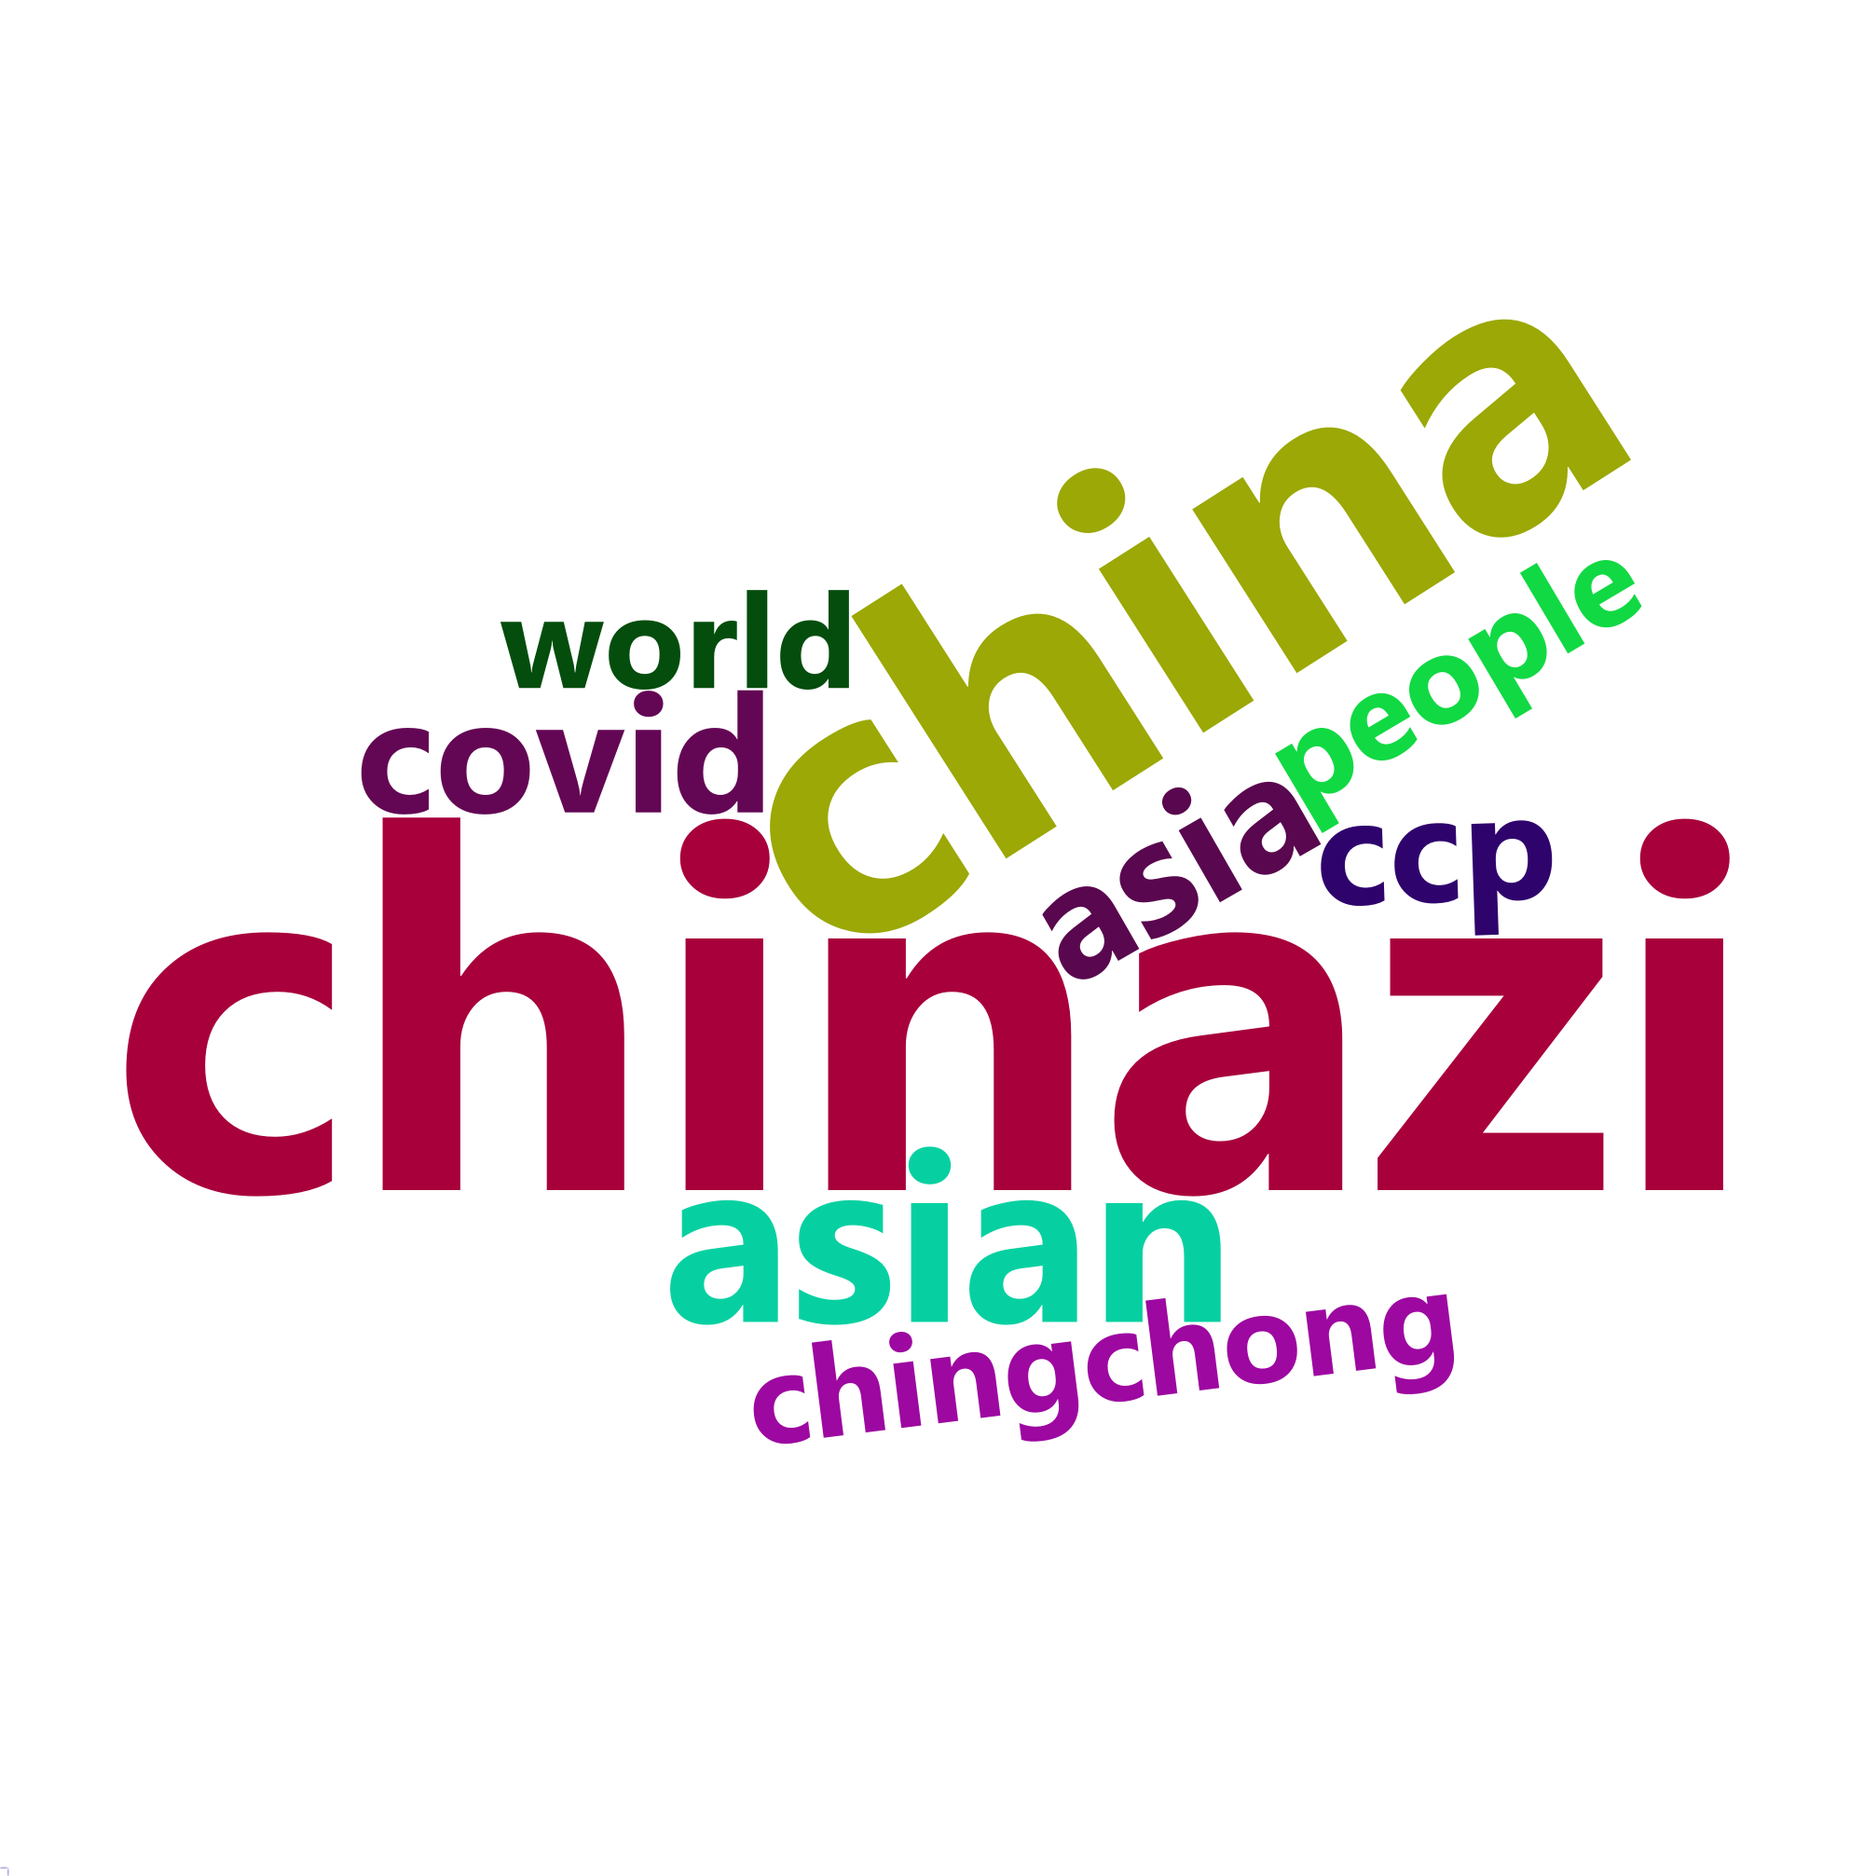
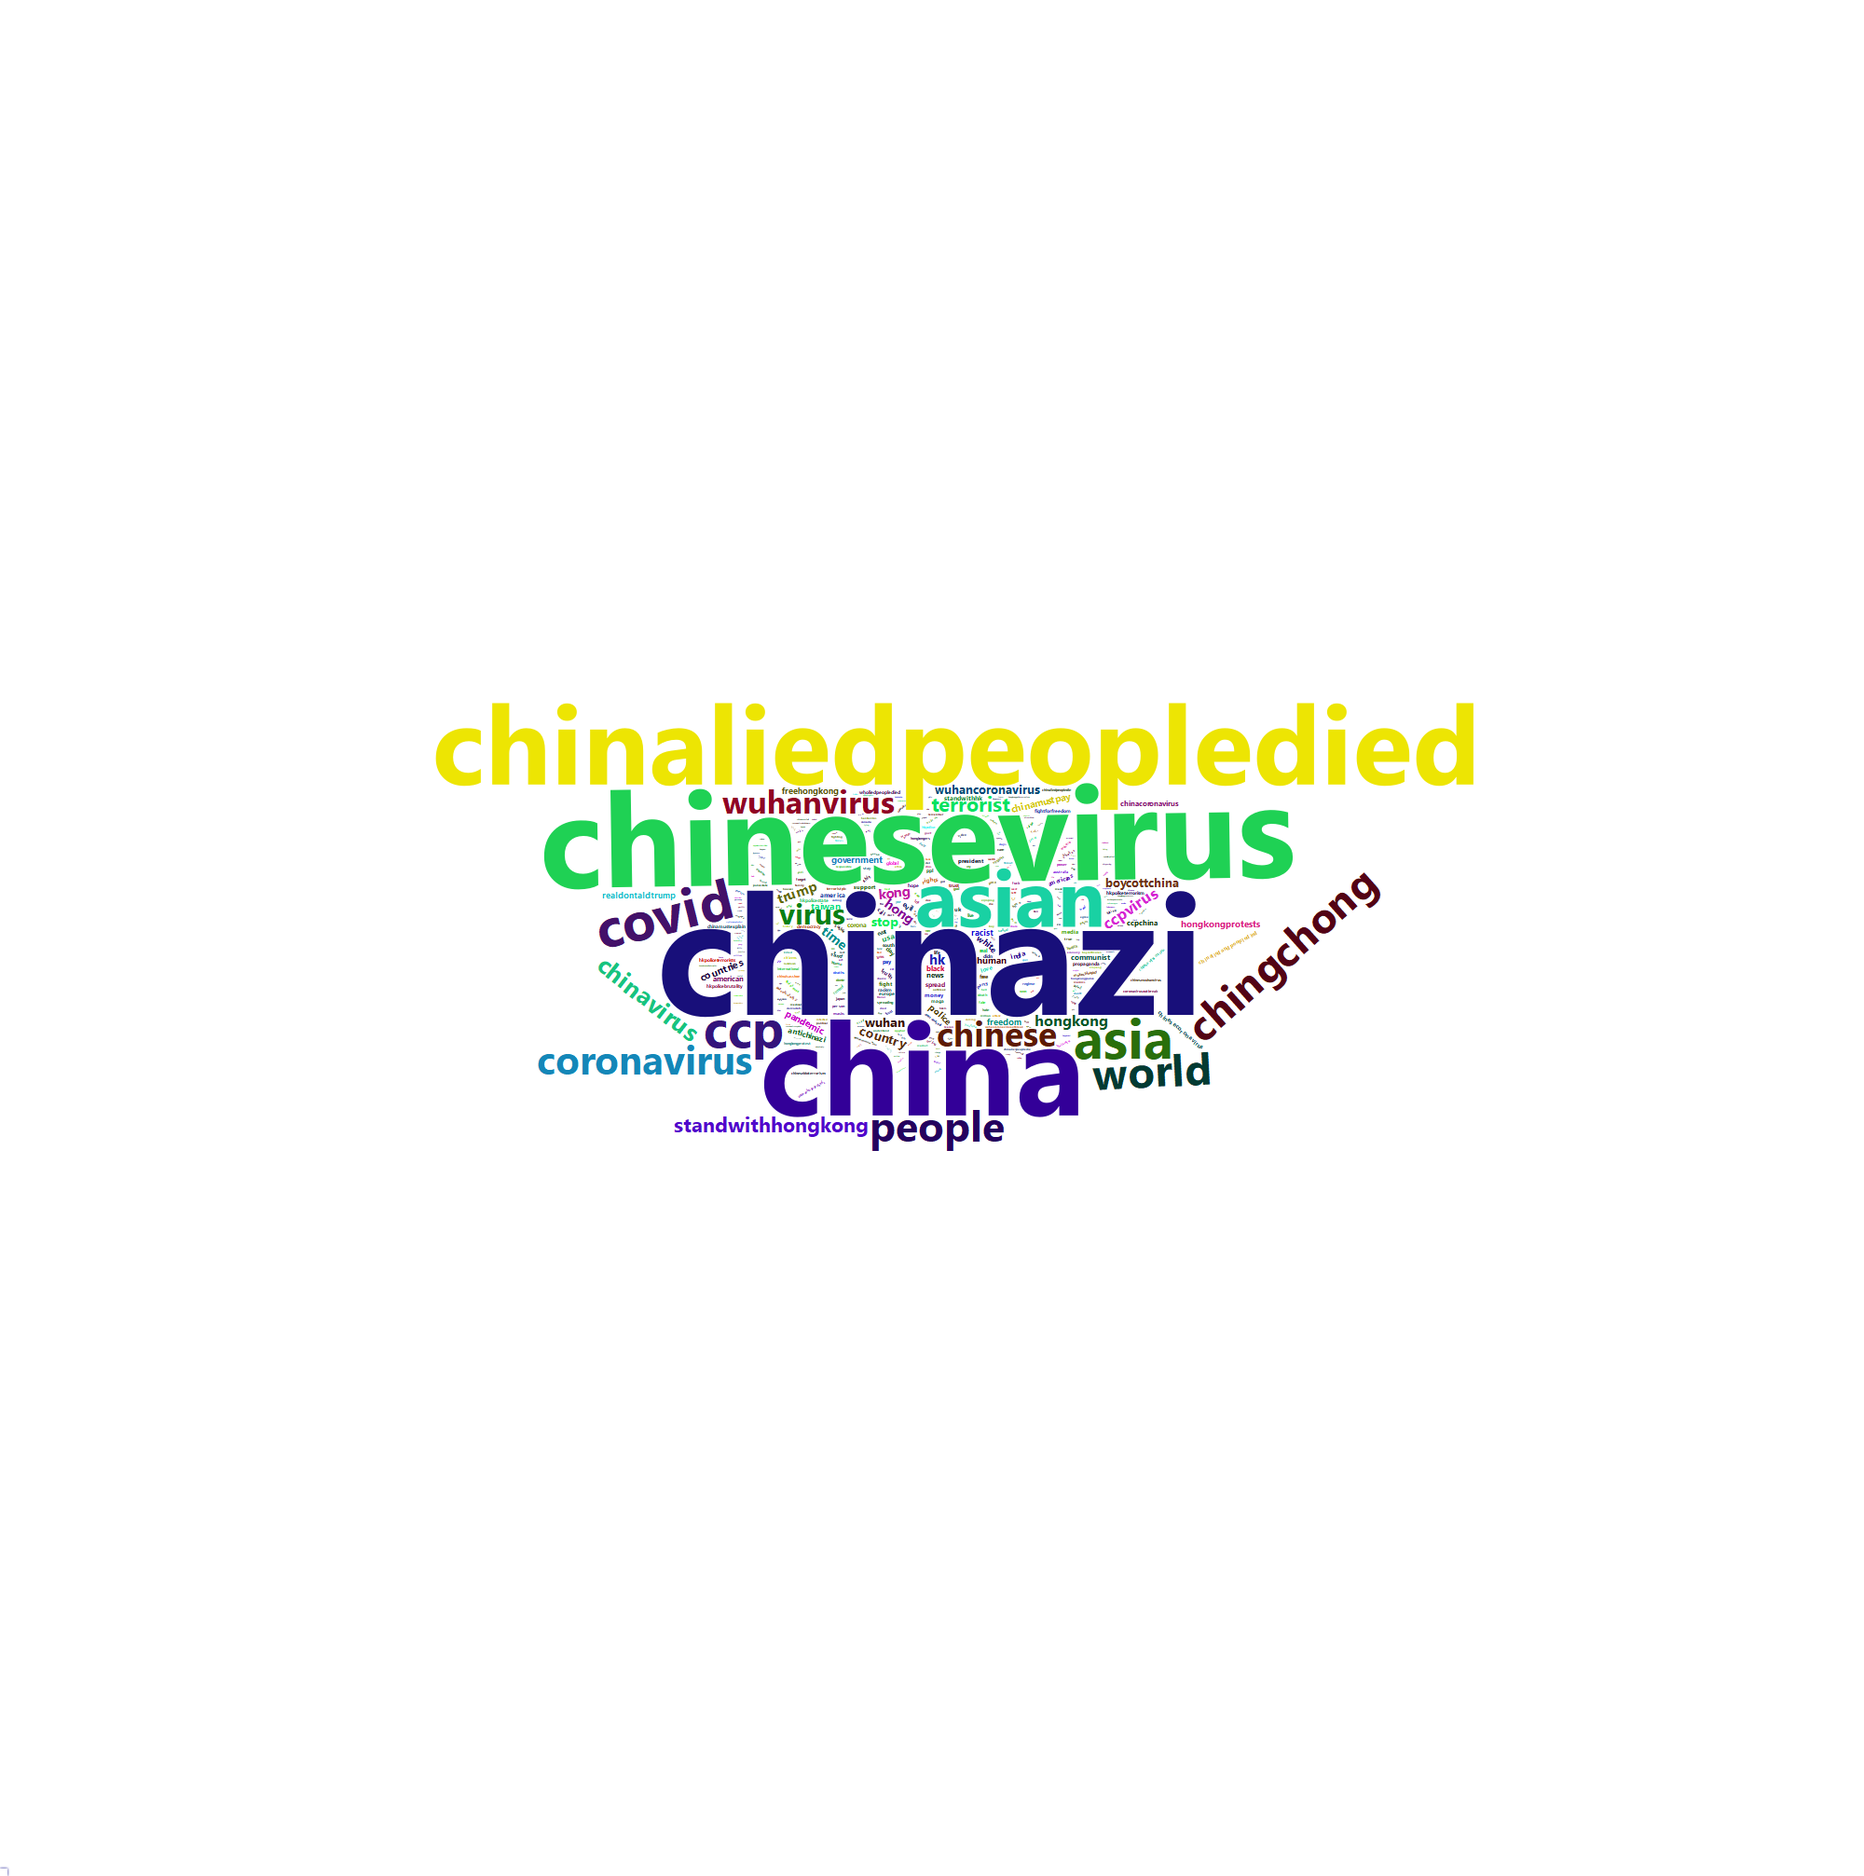
update analysis_tries and generate new worclouds by running the code
Adding some data exploration text

Changed region(s): [[0.062, 0.154, 0.93, 0.77]]

diff --git a/wcloud.html b/wcloud.html
@@ -12,9 +12,9 @@
 </head>
 <body>
 <div id="htmlwidget_container">
-  <div id="htmlwidget-67f505dbee9f1725c42c" style="width:960px;height:500px;" class="wordcloud2 html-widget"></div>
+  <div id="htmlwidget-a2f05472ee4abafa9c32" style="width:960px;height:500px;" class="wordcloud2 html-widget"></div>
 </div>
-<script type="application/json" data-for="htmlwidget-67f505dbee9f1725c42c">{"x":{"word":["chinazi","chinesevirus","china","chinaliedpeopledied","asian","asia","covid","ccp","world","chingchong","people","coronavirus","chinese","wuhanvirus","virus","chinavirus","terrorist","standwithhongkong","ccpvirus","hongkong","hong","kong","hk","trump","stop","time","wuhan","country","boycottchina","wuhancoronavirus","countries","chinamustpay","pandemic","hongkongprotests","human","government","taiwan","police","racist","realdontaldtrump","white","freedom","freehongkong","antichinazi","communist","black","evil","chinacoronavirus","ccpchina","american","news","usa","chinesecoronavirus","spread","corona","india","america","day","standwithhk","pay","support","truth","americans","rights","love","call","fight","uk","chinaliedandpeopledied","east","real","free","money","president","media","hkpolicestate","wholiedpeopledied","south","hkpolicebrutality","hkpoliceterrorism","stand","life","hkpoliceterrorists","propaganda","trust","democracy","soshk","chinamustexplain","hope","live","party","racism","fightforfreedom","ppl","didn","europe","global","maga","shit","blame","spreading","makechinapay","deaths","fuck","los","stay","death","donte","hongkongers","called","uyghurs","chinesewuhanvirus","coronavirusoutbreak","home","por","regime","fake","war","control","food","won","hate","lives","true","japan","chinesebioterrorism","para","health","citizens","god","international","chineseviruscorona","demandsnot","person","chinaisasshoe","hongkongprotest","australia","forget","con","masks","hkpolice","terroristpic","care","christmas","power","chinaliedpeopledie","policebrutality","lies","start","due","xijinping","video","bad","responsible","wrong","youtube","shame","outbreak","italy","million","act","coming","freehk","africa","calling","travel","kill","est","law","economy","wuhancoronavius","flu","buy","history","anti","coronaviruspandemic","hkers","women","lockdown","gfvip","uyghur","watch","girl","lied","wuhancoronavirusoutbreak","agree","died","boycottmulan","lot","threat","huawei","understand","mask","nazi","business","die","hongkongpolice","save","sia","killed","times","fighting","muslims","protect","chinalies","potus","happy","beijing","family","remember","share","xinjiang","feel","lost","medical","reason","crisis","left","days","govt","infected","market","bill","canada","chinaliespeopledie","del","dontt","hantavirus","im","attack","democrats","hell","started","city","eu","gov","policestate","political","west","ban","fucking","makes","race","african","western","stupid","dead","woman","wuhanpneumonia","sars","cover","killing","lying","guy","rest","talking","korea","drtedros","freetibet","friends","cnn","game","gonna","information","kag","play","solomonyue","pro","community","fakenews","hard","stayhome","accountable","ccpliedpeopledied","southeast","economic","means","eat","kills","sad","ass","caused","job","change","originated","trade","asians","guys","humanity","pacific","told","una","follow","lab","yang","culture","justice","read","safe","top","word","entire","generation","hongkongprotesters","les","europa","created","millions","markets","speech","taking","germany","late","viruschino","action","lie","wake","coronavirusupdate","nation","public","tyranny","months","sanction","ago","found","products","bring","comment","data","kids","matter","students","arrested","disgusting","girls","hands","situation","social","absolutely","coronaviruslockdown","crazy","deal","eating","happen","japanese","middle","speakerpelosi","yeah","che","future","hahahaha","happened","sick","check","hold","hongkongpoliceterrorism","tour","tweet","polyu","united","censorship","happening","anywherebutchina","genocide","hkprotests","liberatehongkong","xijinpingvirus","damn","living","chinamustfall","disease","eyes","wait","friend","learn","son","telling","como","dan","house","issue","mi","pls","worse","communism","hit","line","literally","price","talaga","talk","thousands","boycottbeijing","dear","giving","held","hongkongpolicebrutality","indian","poor","puppet","shut","tibet","worldwide","foreign","humanrights","joke","national","sense","thailand"],"freq":[10724,8422,8276,7038,5058,3535,3516,3249,2828,2770,2701,2520,2181,2022,1860,1622,1301,1294,989,977,898,894,884,883,825,825,812,806,800,758,637,615,608,596,572,568,566,538,531,531,531,517,507,504,498,496,481,464,463,460,459,447,435,435,418,410,404,404,401,382,376,375,373,373,372,369,369,354,351,347,346,338,336,333,330,325,325,321,317,311,308,303,302,295,290,286,286,284,284,284,284,282,281,280,273,273,273,273,269,260,260,259,258,258,258,258,256,255,254,253,253,250,250,250,250,250,248,248,244,241,239,238,238,238,237,234,232,229,228,227,226,225,223,222,221,221,220,220,219,217,214,214,212,212,212,211,209,208,208,206,206,205,204,203,203,203,202,201,200,200,199,199,199,198,198,198,196,195,195,194,194,193,192,192,191,190,189,188,187,186,186,185,184,184,182,180,180,179,179,179,178,178,177,175,174,174,174,174,174,173,173,171,171,171,170,170,168,167,167,167,167,167,166,164,164,164,161,161,160,160,159,159,158,158,158,158,157,157,156,155,155,155,155,153,153,152,152,152,151,150,150,150,150,149,148,147,146,146,146,145,144,144,144,143,143,142,141,140,140,140,139,139,139,139,139,139,139,138,137,137,137,137,136,136,136,135,135,134,134,134,133,133,133,132,132,132,131,131,131,131,131,131,130,130,129,128,128,128,128,128,128,127,127,127,127,126,125,125,124,124,124,122,122,122,121,121,121,120,120,120,120,119,119,118,118,118,117,117,117,117,117,117,116,116,116,116,116,116,115,115,115,115,115,115,115,115,115,115,114,114,114,114,114,113,113,113,113,113,112,112,111,111,110,110,110,110,110,108,108,107,107,107,107,106,106,106,106,105,105,105,105,105,105,105,104,104,104,104,104,104,104,104,103,103,103,103,103,103,103,103,103,103,103,102,102,101,101,101,101],"fontFamily":"Segoe UI","fontWeight":"bold","color":"random-dark","minSize":0,"weightFactor":0.0503543453935099,"backgroundColor":"white","gridSize":0,"minRotation":-0.785398163397448,"maxRotation":0.785398163397448,"shuffle":true,"rotateRatio":0.4,"shape":"circle","ellipticity":0.65,"figBase64":null,"hover":null},"evals":[],"jsHooks":{"render":[{"code":"function(el,x){\n                        console.log(123);\n                        if(!iii){\n                          window.location.reload();\n                          iii = False;\n\n                        }\n  }","data":null}]}}</script>
-<script type="application/htmlwidget-sizing" data-for="htmlwidget-67f505dbee9f1725c42c">{"viewer":{"width":450,"height":350,"padding":0,"fill":true},"browser":{"width":960,"height":500,"padding":0,"fill":true}}</script>
+<script type="application/json" data-for="htmlwidget-a2f05472ee4abafa9c32">{"x":{"word":["chinazi","chinesevirus","china","chinaliedpeopledied","asian","asia","covid","ccp","world","chingchong","people","coronavirus","chinese","wuhanvirus","virus","chinavirus","terrorist","standwithhongkong","ccpvirus","hongkong","hong","kong","hk","trump","stop","time","wuhan","country","boycottchina","wuhancoronavirus","countries","chinamustpay","pandemic","hongkongprotests","human","government","taiwan","police","racist","realdontaldtrump","white","freedom","freehongkong","antichinazi","communist","black","evil","chinacoronavirus","ccpchina","american","news","usa","chinesecoronavirus","spread","corona","india","america","day","standwithhk","pay","support","truth","americans","rights","love","call","fight","uk","chinaliedandpeopledied","east","real","free","money","president","media","hkpolicestate","wholiedpeopledied","south","hkpolicebrutality","hkpoliceterrorism","stand","life","hkpoliceterrorists","propaganda","trust","democracy","soshk","chinamustexplain","hope","live","party","racism","fightforfreedom","ppl","didn","europe","global","maga","shit","blame","spreading","makechinapay","deaths","fuck","los","stay","death","donte","hongkongers","called","uyghurs","chinesewuhanvirus","coronavirusoutbreak","home","por","regime","fake","war","control","food","won","hate","lives","true","japan","chinesebioterrorism","para","health","citizens","god","international","chineseviruscorona","demandsnot","person","chinaisasshoe","hongkongprotest","australia","forget","con","masks","hkpolice","terroristpic","care","christmas","power","chinaliedpeopledie","policebrutality","lies","start","due","xijinping","video","bad","responsible","wrong","youtube","shame","outbreak","italy","million","act","coming","freehk","africa","calling","travel","kill","est","law","economy","wuhancoronavius","flu","buy","history","anti","coronaviruspandemic","hkers","women","lockdown","gfvip","uyghur","watch","girl","lied","wuhancoronavirusoutbreak","agree","died","boycottmulan","lot","threat","huawei","understand","mask","nazi","business","die","hongkongpolice","save","sia","killed","times","fighting","muslims","protect","chinalies","potus","happy","beijing","family","remember","share","xinjiang","feel","lost","medical","reason","crisis","left","days","govt","infected","market","bill","canada","chinaliespeopledie","del","dontt","hantavirus","im","attack","democrats","hell","started","city","eu","gov","policestate","political","west","ban","fucking","makes","race","african","western","stupid","dead","woman","wuhanpneumonia","sars","cover","killing","lying","guy","rest","talking","korea","drtedros","freetibet","friends","cnn","game","gonna","information","kag","play","solomonyue","pro","community","fakenews","hard","stayhome","accountable","ccpliedpeopledied","southeast","economic","means","eat","kills","sad","ass","caused","job","change","originated","trade","asians","guys","humanity","pacific","told","una","follow","lab","yang","culture","justice","read","safe","top","word","entire","generation","hongkongprotesters","les","europa","created","millions","markets","speech","taking","germany","late","viruschino","action","lie","wake","coronavirusupdate","nation","public","tyranny","months","sanction","ago","found","products","bring","comment","data","kids","matter","students","arrested","disgusting","girls","hands","situation","social","absolutely","coronaviruslockdown","crazy","deal","eating","happen","japanese","middle","speakerpelosi","yeah","che","future","hahahaha","happened","sick","check","hold","hongkongpoliceterrorism","tour","tweet","polyu","united","censorship","happening","anywherebutchina","genocide","hkprotests","liberatehongkong","xijinpingvirus","damn","living","chinamustfall","disease","eyes","wait","friend","learn","son","telling","como","dan","house","issue","mi","pls","worse","communism","hit","line","literally","price","talaga","talk","thousands","boycottbeijing","dear","giving","held","hongkongpolicebrutality","indian","poor","puppet","shut","tibet","worldwide","foreign","humanrights","joke","national","sense","thailand"],"freq":[10724,8422,8276,7038,5058,3535,3516,3249,2828,2770,2701,2520,2181,2022,1860,1622,1301,1294,989,977,898,894,884,883,825,825,812,806,800,758,637,615,608,596,572,568,566,538,531,531,531,517,507,504,498,496,481,464,463,460,459,447,435,435,418,410,404,404,401,382,376,375,373,373,372,369,369,354,351,347,346,338,336,333,330,325,325,321,317,311,308,303,302,295,290,286,286,284,284,284,284,282,281,280,273,273,273,273,269,260,260,259,258,258,258,258,256,255,254,253,253,250,250,250,250,250,248,248,244,241,239,238,238,238,237,234,232,229,228,227,226,225,223,222,221,221,220,220,219,217,214,214,212,212,212,211,209,208,208,206,206,205,204,203,203,203,202,201,200,200,199,199,199,198,198,198,196,195,195,194,194,193,192,192,191,190,189,188,187,186,186,185,184,184,182,180,180,179,179,179,178,178,177,175,174,174,174,174,174,173,173,171,171,171,170,170,168,167,167,167,167,167,166,164,164,164,161,161,160,160,159,159,158,158,158,158,157,157,156,155,155,155,155,153,153,152,152,152,151,150,150,150,150,149,148,147,146,146,146,145,144,144,144,143,143,142,141,140,140,140,139,139,139,139,139,139,139,138,137,137,137,137,136,136,136,135,135,134,134,134,133,133,133,132,132,132,131,131,131,131,131,131,130,130,129,128,128,128,128,128,128,127,127,127,127,126,125,125,124,124,124,122,122,122,121,121,121,120,120,120,120,119,119,118,118,118,117,117,117,117,117,117,116,116,116,116,116,116,115,115,115,115,115,115,115,115,115,115,114,114,114,114,114,113,113,113,113,113,112,112,111,111,110,110,110,110,110,108,108,107,107,107,107,106,106,106,106,105,105,105,105,105,105,105,104,104,104,104,104,104,104,104,103,103,103,103,103,103,103,103,103,103,103,102,102,101,101,101,101],"fontFamily":"Segoe UI","fontWeight":"bold","color":"random-dark","minSize":0,"weightFactor":0.0167847817978366,"backgroundColor":"white","gridSize":0,"minRotation":-0.785398163397448,"maxRotation":0.785398163397448,"shuffle":true,"rotateRatio":0.4,"shape":"circle","ellipticity":0.65,"figBase64":null,"hover":null},"evals":[],"jsHooks":{"render":[{"code":"function(el,x){\n                        console.log(123);\n                        if(!iii){\n                          window.location.reload();\n                          iii = False;\n\n                        }\n  }","data":null}]}}</script>
+<script type="application/htmlwidget-sizing" data-for="htmlwidget-a2f05472ee4abafa9c32">{"viewer":{"width":450,"height":350,"padding":0,"fill":true},"browser":{"width":960,"height":500,"padding":0,"fill":true}}</script>
 </body>
 </html>
